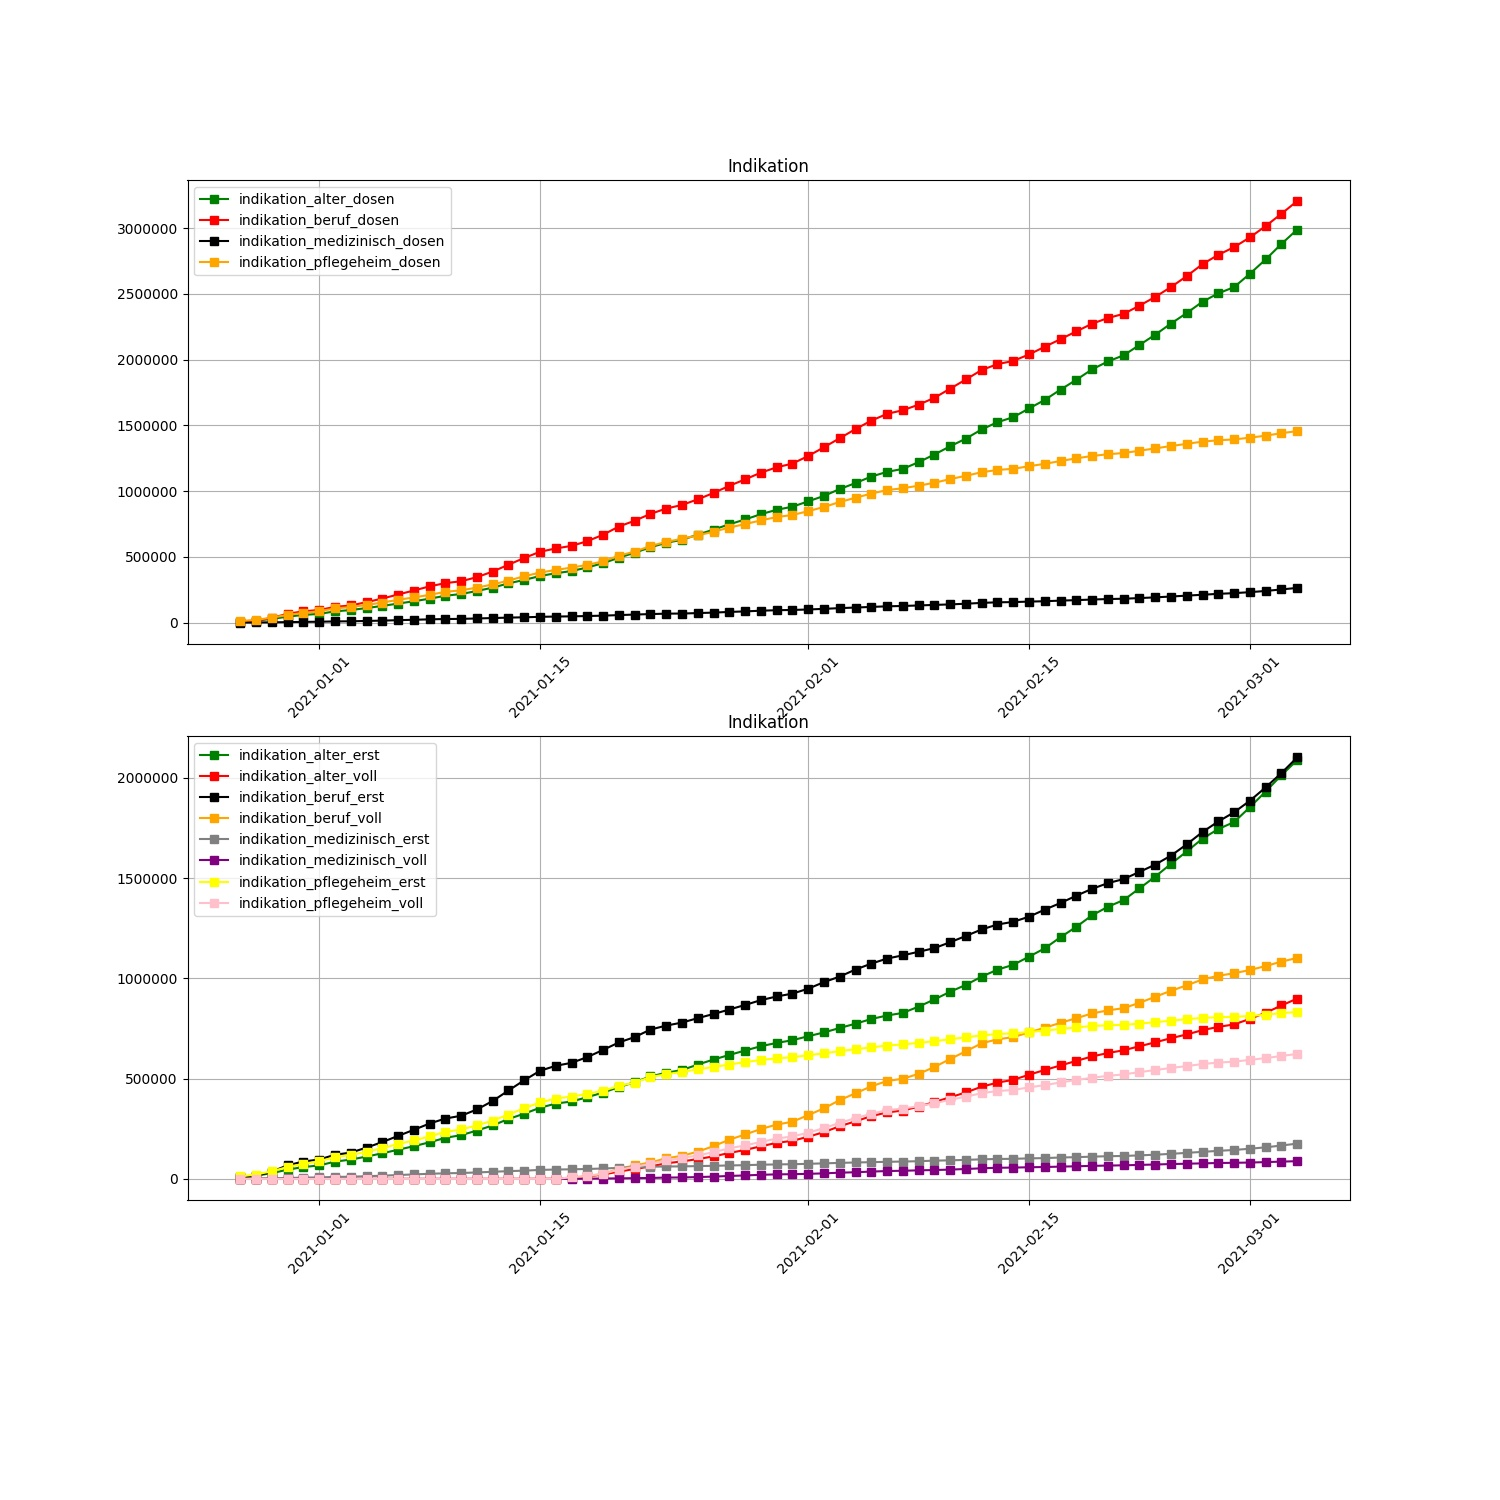
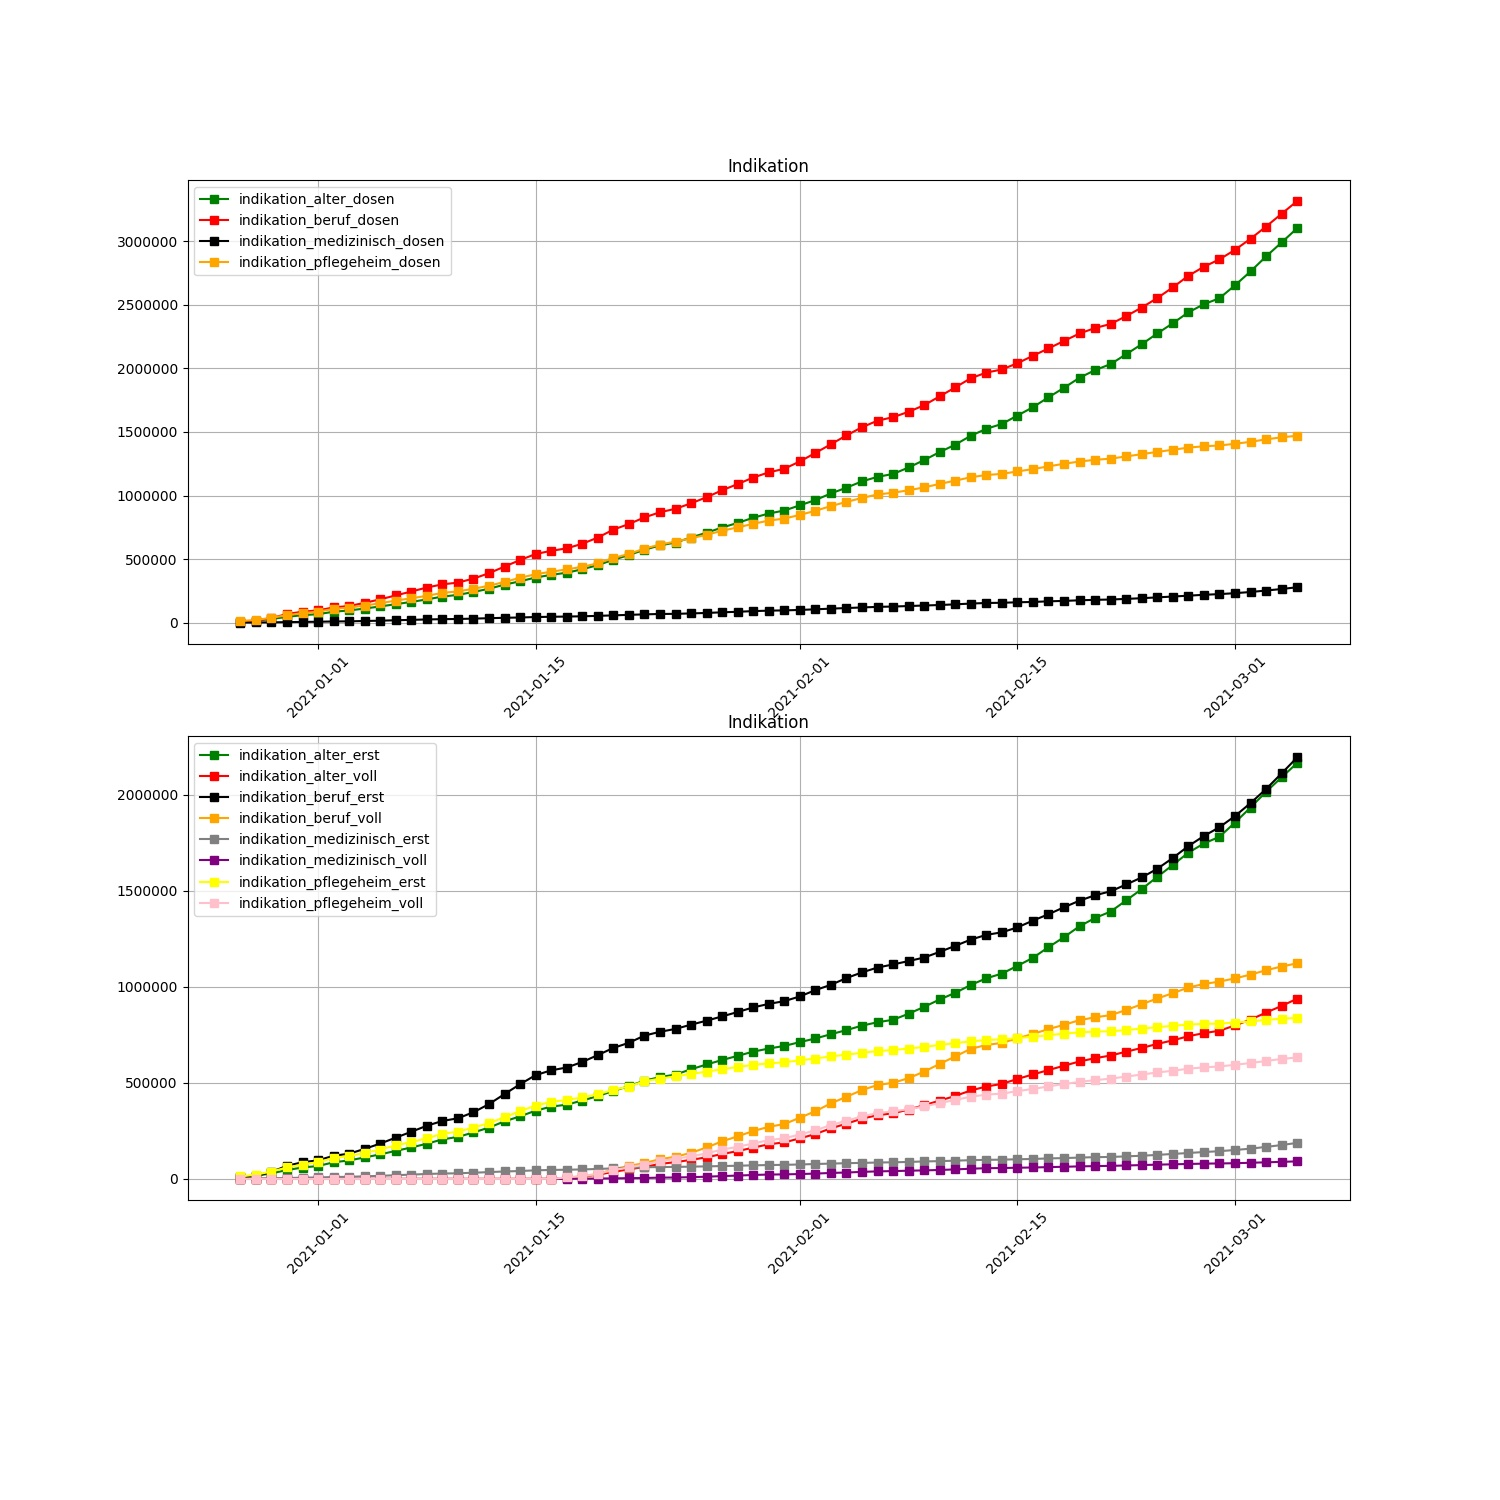
Crontab commit

diff --git a/Readme.md b/Readme.md
@@ -1,19 +1,19 @@
-# Corona vaccine Germany - Stand 2021-03-04
+# Corona vaccine Germany - Stand 2021-03-05
 ## Dashboard by [Simon Hamacher](https://www.shamacher.eu)
 ## Impfstoffe Übersicht
 **Impfstoffhersteller** | **verimpfte Dosen**
 -------- | :--------:
-Biontech | 6146486
-Moderna | 215233
-Astrazeneca | 720843
+Biontech | 6289950
+Moderna | 227469
+Astrazeneca | 808679
 
 
 ## Quoten
-**Total Verimpfte Dosen:** | 7082562
+**Total Verimpfte Dosen:** | 7326098
 -------- | :--------:
-**Erst-Impfquote** | 5.69 %
-**Voll-Impfquote** | 2.82 %
-**Imfungen Durchschnitt** | 104155.32 pro Tag
+**Erst-Impfquote** | 5.91 %
+**Voll-Impfquote** | 2.90 %
+**Imfungen Durchschnitt** | 106175.33 pro Tag
 ## Graphen
 <img src="Impfungen-Corona-01.jpg" alt="Corona-1" title="optionaler Titel" />
 <img src="Impfungen-Corona-02.jpg" alt="Corona-2" title="optionaler Titel" />
